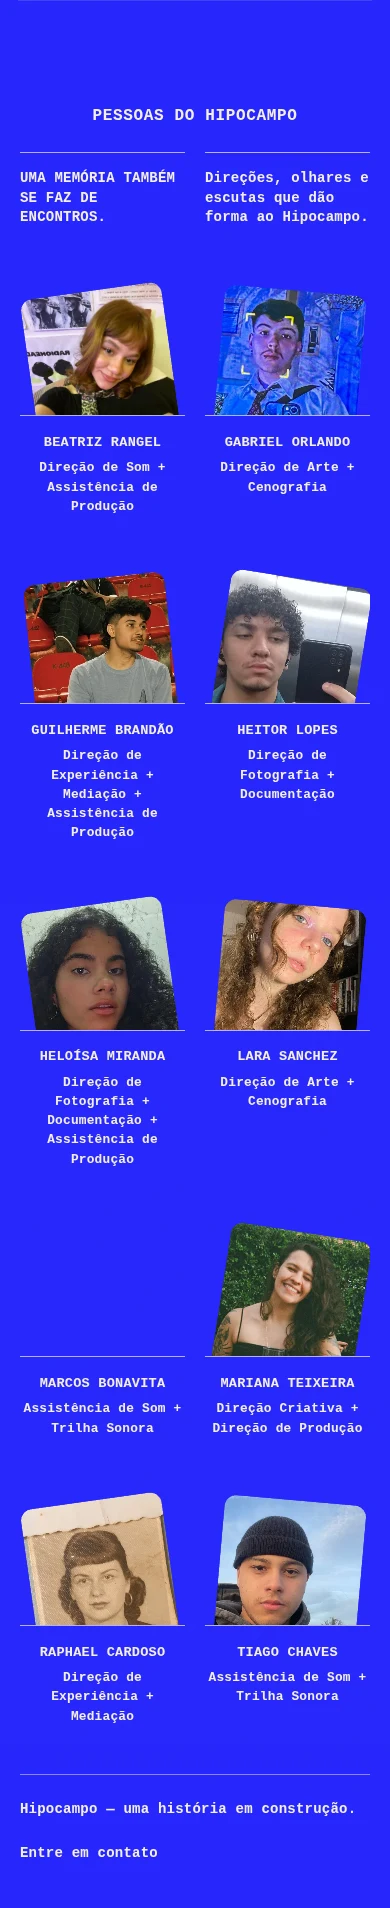
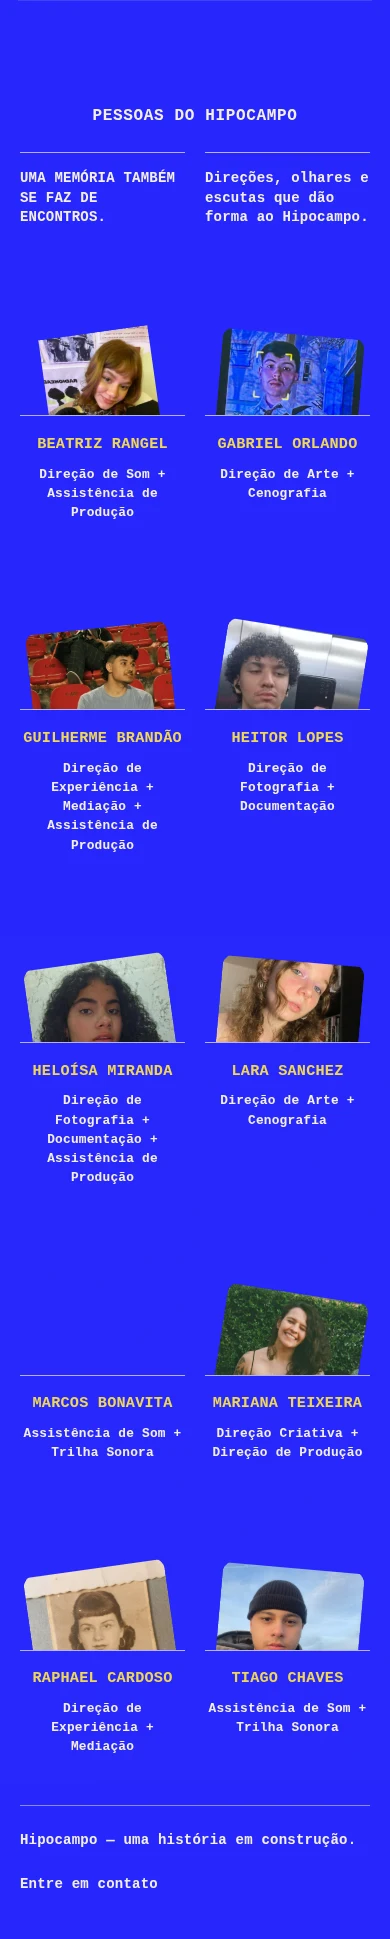
style(equipe): destacar nomes em amarelo acima das funções

diff --git a/Kimi_Agent_HIPOCAMPO 3D Interactive Site/hipocampo/public/assets/team-finale.css b/Kimi_Agent_HIPOCAMPO 3D Interactive Site/hipocampo/public/assets/team-finale.css
@@ -20,7 +20,7 @@
 .team-credit.is-active .team-photo-float, .team-credit:focus-within .team-photo-float { animation: none; transform: none; }
 .team-photo-window:focus-visible, #informacoes.team-finale a:focus-visible { outline: 2px solid #fff; outline-offset: 5px; }
 .team-photo-unavailable { cursor: default; }
-#informacoes.team-finale .team-credit h3 { margin: 1.5rem 0 .4rem; font: inherit; font-size: clamp(.875rem, 1.1vw, 1rem); line-height: 1.35; text-transform: uppercase; overflow-wrap: anywhere; }
+#informacoes.team-finale .team-credit h3 { margin: 1.5rem 0 .65rem; font: inherit; color: #f0d756; font-size: clamp(1rem, 1.25vw, 1.125rem); line-height: 1.35; text-transform: uppercase; overflow-wrap: anywhere; }
 .team-credit-roles { margin: 0 auto; max-width: 28ch; font-size: clamp(.875rem, 1.1vw, 1rem); line-height: 1.45; text-wrap: pretty; }
 .team-finale-bottom { display: flex; align-items: center; justify-content: space-between; gap: 1.5rem; border-top: 1px solid #f4f0e780; padding-top: 1.5rem; font-size: .875rem; line-height: 1.5; }
 .team-finale-bottom p { margin: 0; }
@@ -44,7 +44,7 @@
   .team-revealed .team-photo-window img { transform: translateY(4rem) rotate(var(--member-angle)); }
   .team-credit.is-active .team-photo-window img, .team-photo-window:focus-visible img { transform: none; }
   .team-photo-window img { border-radius: .75rem; }
-  #informacoes.team-finale .team-credit h3 { margin-top: 1.1rem; font-size: .85rem; }
+  #informacoes.team-finale .team-credit h3 { margin-top: 1.1rem; font-size: .95rem; }
   .team-credit-roles { font-size: .8rem; line-height: 1.5; }
   .team-finale-bottom { display: block; }
   .team-finale-bottom a { margin-top: .75rem; }

diff --git a/Kimi_Agent_HIPOCAMPO 3D Interactive Site/hipocampo/index.html b/Kimi_Agent_HIPOCAMPO 3D Interactive Site/hipocampo/index.html
@@ -2,7 +2,7 @@
 <html lang="pt-BR">
   <head>
     <meta charset="UTF-8" />
-    <meta name="hipocampo-release" content="team-full-portrait-20261114-1" />
+    <meta name="hipocampo-release" content="team-name-emphasis-20261114-1" />
     <meta name="viewport" content="width=device-width, initial-scale=1.0" />
     <meta
       name="description"
@@ -26,7 +26,7 @@
     <link rel="stylesheet" href="/assets/installation-room.css?v=type-installation-1" />
     <link rel="stylesheet" href="/assets/client-update.css?v=type-installation-1" />
     <link rel="stylesheet" href="/assets/mobile-layout.css?v=phone-gestures-1" />
-    <link rel="stylesheet" href="/assets/team-finale.css?v=credits-full-photo-1" />
+    <link rel="stylesheet" href="/assets/team-finale.css?v=credits-name-emphasis-1" />
     <!-- Route only the recovered installation chunk to its editable 3D entry.
          Keeping the shared React URL unchanged avoids mounting the site twice. -->
     <script type="importmap">
@@ -49,7 +49,7 @@
     <script type="module" src="/assets/editorial-motion.js?v=team-credits-1"></script>
     <script type="module" src="/assets/photo-trail.js?v=phone-gestures-1"></script>
     <script type="module" src="/assets/mobile-layout.js?v=phone-gestures-1"></script>
-    <script type="module" src="/assets/team-finale.js?v=credits-full-photo-1"></script>
+    <script type="module" src="/assets/team-finale.js?v=credits-name-emphasis-1"></script>
   </head>
   <body>
     <div class="hipocampo-intro" aria-hidden="true"><svg viewBox="0 0 300 300" focusable="false"><text x="150" y="235" text-anchor="middle">H</text></svg></div>

diff --git a/Kimi_Agent_HIPOCAMPO 3D Interactive Site/hipocampo/design-qa.md b/Kimi_Agent_HIPOCAMPO 3D Interactive Site/hipocampo/design-qa.md
@@ -619,3 +619,10 @@ Correção do recorte relatado pelo usuário na foto da Lara. Antes, cover e uma
 Evidências: `docs/team-lara-full-1440.webp`, `docs/team-lara-full-390.webp`; capturas Playwright do componente ativo em desktop e celular, DPR 1. A foto completa termina antes da linha e o nome/funções seguem legíveis. Teste geométrico adicional das nove imagens: todos os limites do img dentro da janela, object-fit contain, escala 1 após ativação; hover, toque e Escape, ausência de overflow e console mantidos.
 
 final result: passed
+
+
+## 2026-11-14 — Hierarquia de nomes e funções
+
+A pedido do usuário, nomes em amarelo de marca #f0d756 e tamanho maior (16–18 px no desktop, 15,2 px no celular); funções permanecem brancas (14–16 px / 12,8 px). Mais espaçamento entre nome e funções. Build executado e capturas renderizadas de desktop 1440×1000 e mobile 390×844 inspecionadas. Dez nomes legíveis, acentos preservados e nenhum truncamento. Evidências atualizadas em `docs/team-finale-preview-1440.webp` e `docs/team-finale-preview-390.webp`.
+
+final result: passed

diff --git a/Kimi_Agent_HIPOCAMPO 3D Interactive Site/hipocampo/docs/team-finale-status.md b/Kimi_Agent_HIPOCAMPO 3D Interactive Site/hipocampo/docs/team-finale-status.md
@@ -22,7 +22,7 @@ Os nove retratos recebidos permanecem associados às mesmas pessoas. Nenhum retr
 ## Layout e movimento
 
 - Quatro colunas no desktop, três no tablet e duas no celular.
-- Fonte monoespaçada em nomes e funções, como no print; textos sem truncamento.
+- Fonte monoespaçada em nomes e funções, como no print; nomes em amarelo #f0d756, maiores e com mais separação das funções em branco; textos sem truncamento.
 - Entrada suave por fotografia, flutuação local enquanto visível, revelação da foto inteira ao passar o mouse, focar ou tocar, sem zoom nem recorte da proporção original.
 - Toque alterna a posição; Escape retorna. Botões possuem nome acessível e estado aria-pressed.
 - Movimento reduzido desativa flutuação e deslocamentos. Animações pausam fora da tela e na aba oculta.
